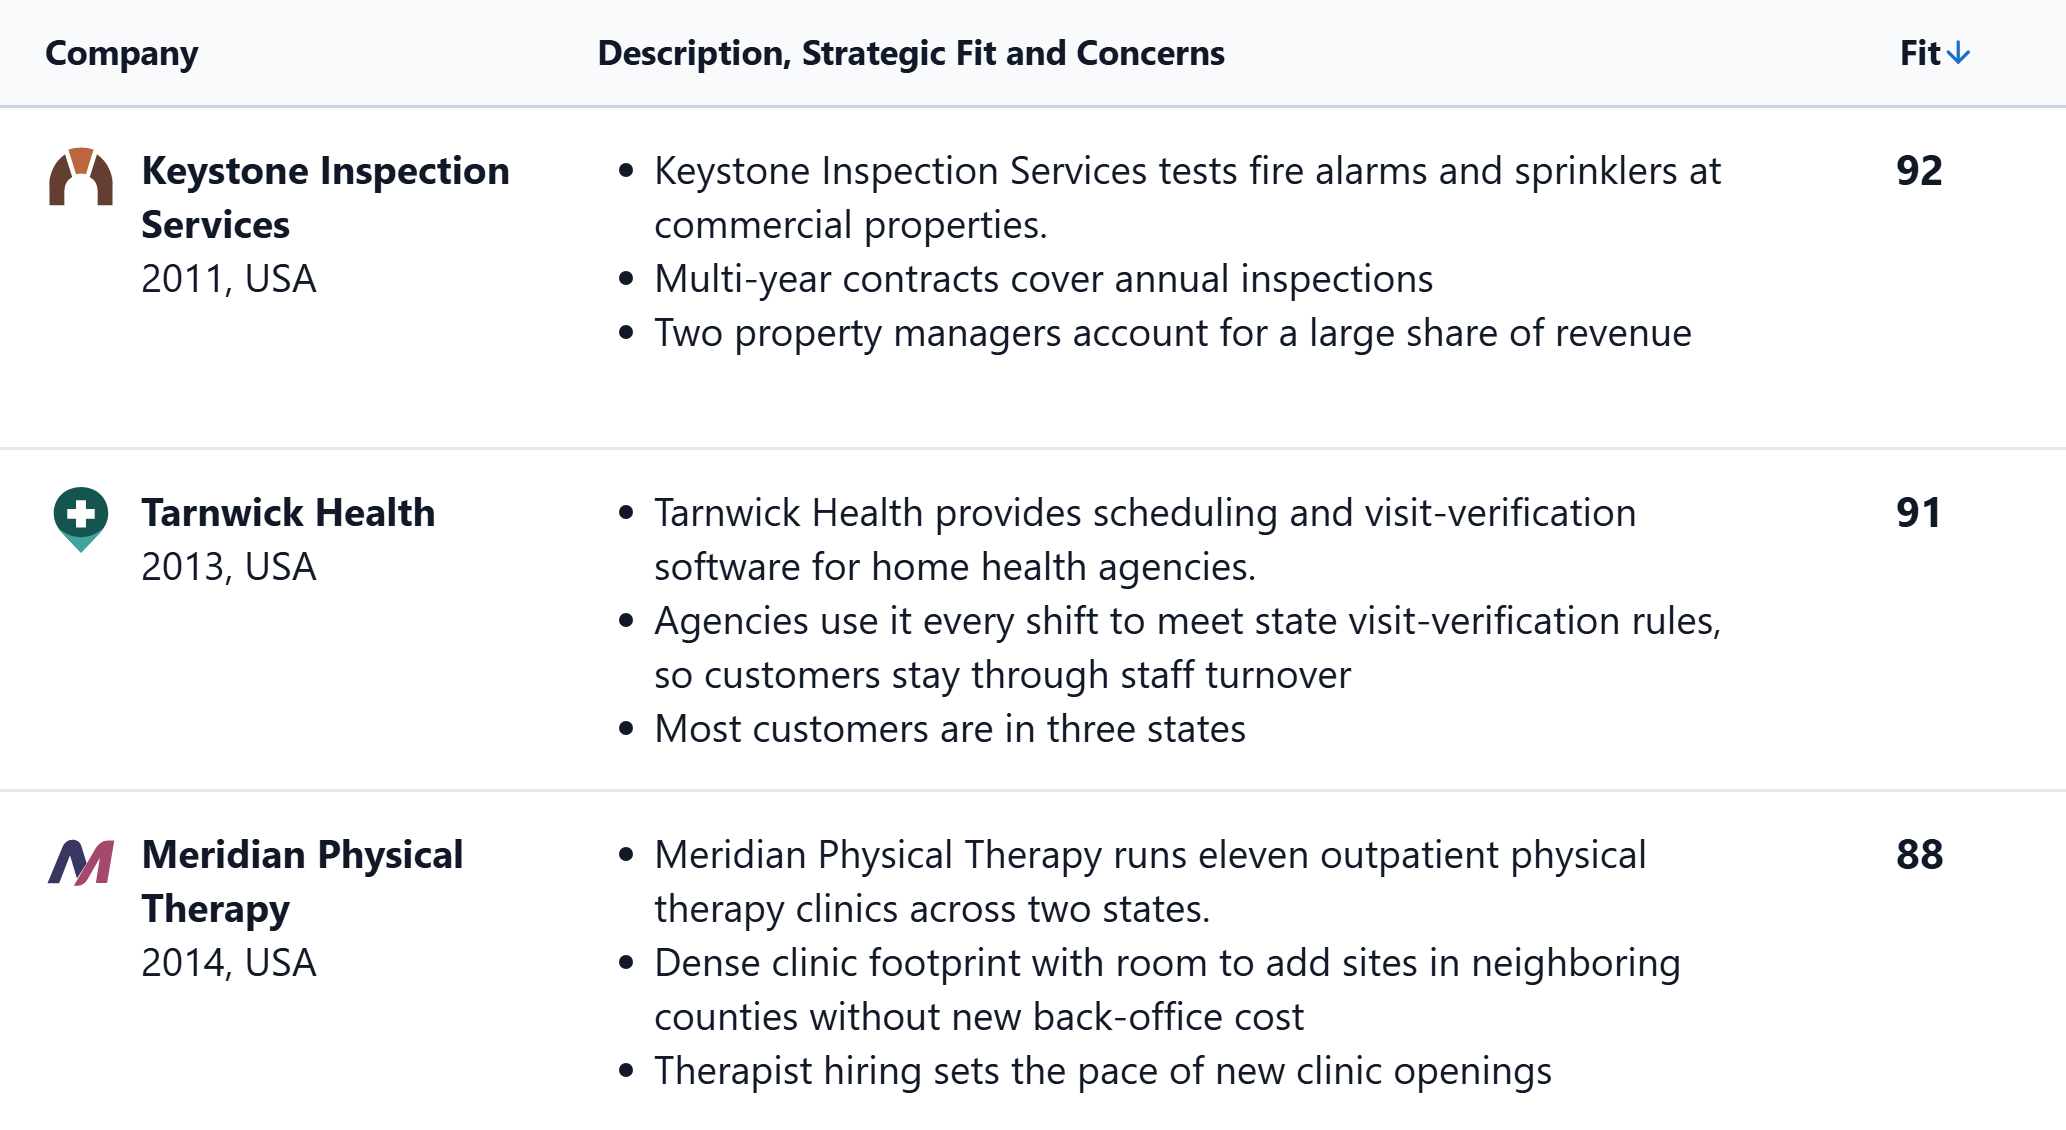
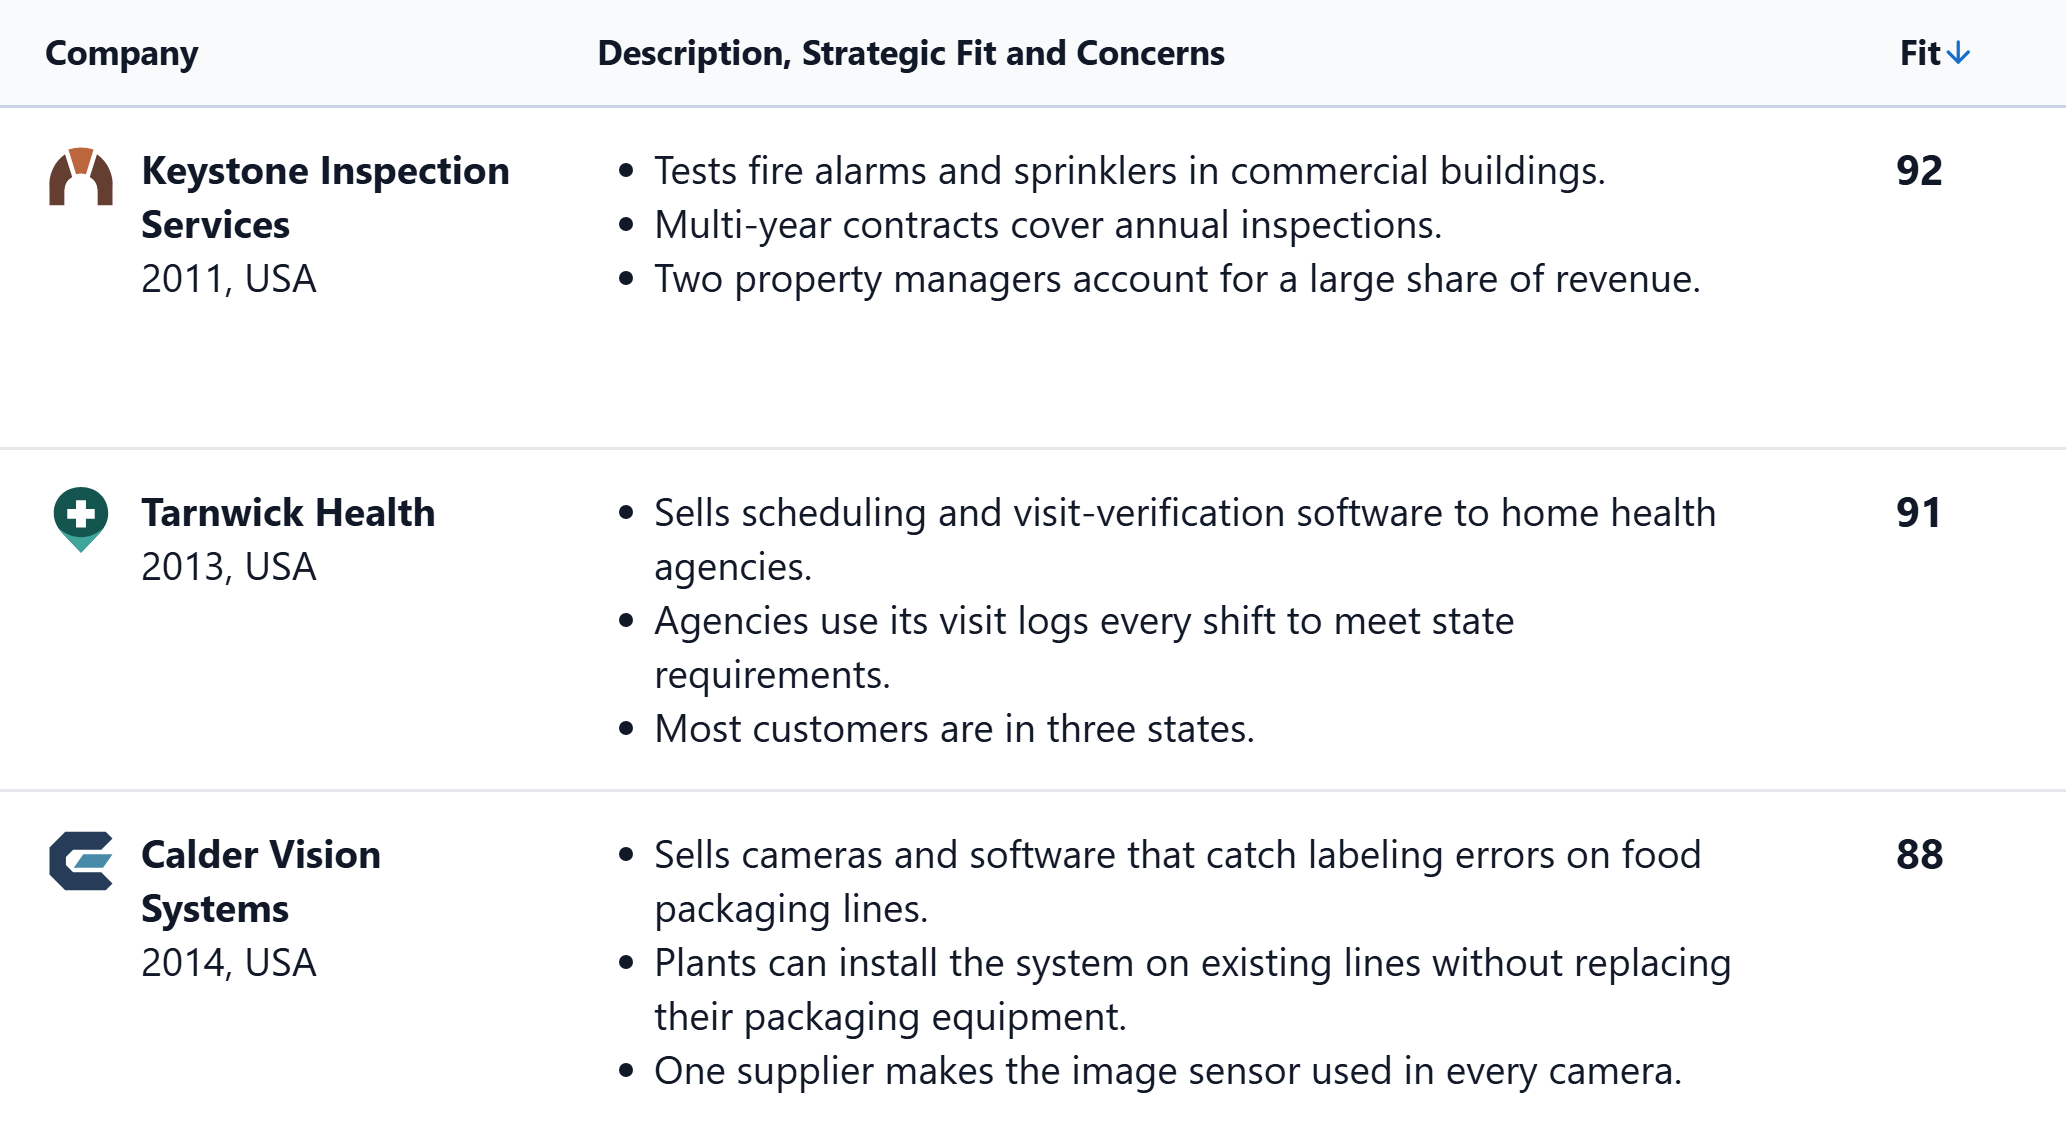
Refine sourcing bullets and introduce Calder Vision Systems

diff --git a/index.html b/index.html
@@ -1403,14 +1403,14 @@ h2 .soft { color:inherit; }
     <div class="panel q4">
 
       <div id="sourcing-queue" role="group" aria-label="Prospects ranked by fit score" tabindex="-1">
-      <img class="crop q4wide" src="assets/asset-03.png?v=keystone-inspection" width="1033" height="565" alt="Description, Strategic Fit and Concerns for the first three prospects by fit score. Invented data. Keystone Inspection Services scores 92. It tests fire alarms and sprinklers at commercial properties. Multi-year contracts cover annual inspections. Two property managers account for a large share of revenue. Tarnwick Health, 91: agencies use it every shift to meet state visit-verification rules, so customers stay through staff turnover; main concern, most customers are in three states. Meridian Physical Therapy, 88: a dense clinic footprint with room to add sites in neighboring counties; main concern, therapist hiring sets the pace of new clinic openings.">
+      <img class="crop q4wide" src="assets/asset-03.png?v=calder-vision" width="1033" height="565" alt="Description, Strategic Fit and Concerns for three illustrative prospects. Keystone Inspection Services, 92 out of 100. Tests fire alarms and sprinklers in commercial buildings. Multi-year contracts cover annual inspections. Two property managers account for a large share of revenue. Tarnwick Health, 91 out of 100. Sells scheduling and visit-verification software to home health agencies. Agencies use its visit logs every shift to meet state requirements. Most customers are in three states. Calder Vision Systems, 88 out of 100. Sells cameras and software that catch labeling errors on food packaging lines. Plants can install the system on existing lines without replacing their packaging equipment. One supplier makes the image sensor used in every camera.">
       <div class="q4narrow">
         <ol class="sourcing-prospects" role="list" aria-label="First three prospects by fit score, with invented data">
           <li>
             <details>
               <summary><span class="prospect-identity"><img src="assets/keystone-inspection-mark.svg" width="24" height="24" alt="">Keystone Inspection Services</span><strong><span class="sr">Fit score </span>92<span aria-hidden="true">/100</span><span class="sr"> out of 100</span></strong></summary>
               <div class="prospect-evidence">
-                <p>Tests fire alarms and sprinklers at commercial properties.</p>
+                <p>Tests fire alarms and sprinklers in commercial buildings.</p>
                 <dl><dt>Strategic fit</dt><dd>Multi-year contracts cover annual inspections.</dd><dt>Concern</dt><dd>Two property managers account for a large share of revenue.</dd></dl>
               </div>
             </details>
@@ -1419,17 +1419,17 @@ h2 .soft { color:inherit; }
             <details open>
               <summary id="tarnwick-fit"><span class="prospect-identity"><img src="assets/tarnwick-health-mark.svg" width="24" height="24" alt="">Tarnwick Health</span><strong><span class="sr">Fit score </span>91<span aria-hidden="true">/100</span><span class="sr"> out of 100</span></strong></summary>
               <div class="prospect-evidence">
-                <p>Scheduling and visit-verification software for home health agencies.</p>
-                <dl><dt>Strategic fit</dt><dd>Agencies use it every shift to meet state visit-verification rules, so customers stay through staff turnover.</dd><dt>Concern</dt><dd>Most customers are in three states.</dd></dl>
+                <p>Sells scheduling and visit-verification software to home health agencies.</p>
+                <dl><dt>Strategic fit</dt><dd>Agencies use its visit logs every shift to meet state requirements.</dd><dt>Concern</dt><dd>Most customers are in three states.</dd></dl>
               </div>
             </details>
           </li>
           <li>
             <details>
-              <summary><span class="prospect-identity"><img src="assets/meridian-physical-therapy-mark.svg" width="24" height="24" alt="">Meridian Physical Therapy</span><strong><span class="sr">Fit score </span>88<span aria-hidden="true">/100</span><span class="sr"> out of 100</span></strong></summary>
+              <summary><span class="prospect-identity"><img src="assets/calder-vision-mark.svg" width="24" height="24" alt="">Calder Vision Systems</span><strong><span class="sr">Fit score </span>88<span aria-hidden="true">/100</span><span class="sr"> out of 100</span></strong></summary>
               <div class="prospect-evidence">
-                <p>Eleven outpatient physical therapy clinics across two states.</p>
-                <dl><dt>Strategic fit</dt><dd>A dense clinic footprint with room to add sites in neighboring counties.</dd><dt>Concern</dt><dd>Therapist hiring sets the pace of new clinic openings.</dd></dl>
+                <p>Sells cameras and software that catch labeling errors on food packaging lines.</p>
+                <dl><dt>Strategic fit</dt><dd>Plants can install the system on existing lines without replacing their packaging equipment.</dd><dt>Concern</dt><dd>One supplier makes the image sensor used in every camera.</dd></dl>
               </div>
             </details>
           </li>
